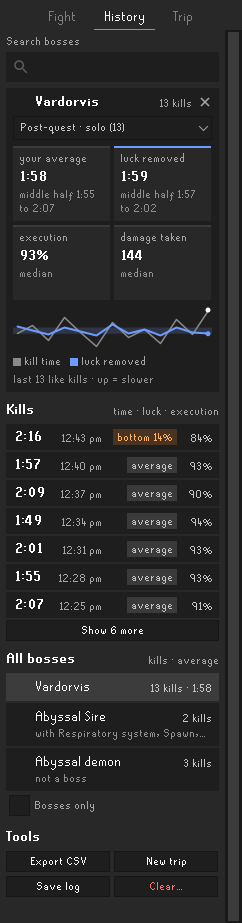
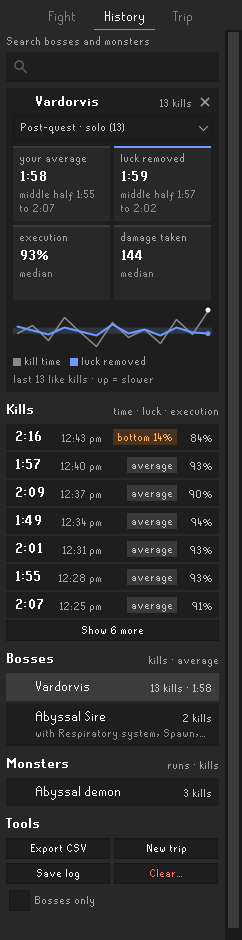
T-067 with T-100 to T-110: new log lines say Luck vs Skill, History picture re-rendered, README names the install id, CHANGELOG
Claude-Session: https://claude.ai/code/session_01X18etdM16w4AUQNJwybjo9

diff --git a/src/main/java/com/pvmlogs/PvmPerformancePlugin.java b/src/main/java/com/pvmlogs/PvmPerformancePlugin.java
@@ -6304,7 +6304,7 @@ public class PvmPerformancePlugin extends Plugin
 				}
 				catch (IOException | RuntimeException e)
 				{
-					log.warn("PvM Logs: could not save the install id", e);
+					log.warn("Luck vs Skill: could not save the install id", e);
 				}
 			});
 		}
@@ -6316,7 +6316,7 @@ public class PvmPerformancePlugin extends Plugin
 		}
 		catch (IOException e)
 		{
-			log.debug("PvM Logs: could not read the bundled rules", e);
+			log.debug("Luck vs Skill: could not read the bundled rules", e);
 		}
 		final String override = dir == null ? null : readText(dir.joinSegment("boss-rules.json"));
 		rulesRecord = portedCommit(rules == null ? null : rules.provenance()) + " rules " + FightContext.shortHash(bundled)

diff --git a/CHANGELOG.md b/CHANGELOG.md
@@ -16,6 +16,8 @@ Luck vs Skill is its own Plugin Hub entry. It began as a fork of Arodab's PvM Pe
 - Boss stats from the OSRS Wiki's DPS calculator, with the right version picked from the health bar (Awakened or not), stats that move with the boss's hitpoints (Vardorvis), the Leviathan's and the Sire's damage modifiers, and Chambers of Xeric and Tombs of Amascut scaling.
 - Bosses with parts or phases (the Sire, the Guardians, the Royal Titans, the Kraken, Hespori, the Maggot King, Araxxor with his araxytes, and others) are one kill each. A boss that leaves view alive isn't a finished fight.
 - A run of monsters of one kind is one room, not a fight per monster, with a lighter view on the side panel.
+- Dying ends the kill, and a fresh boss after a trip is a new kill.
+- A hit is counted only up to what the boss had left when it landed; the room's damage that isn't yours isn't counted as another player's, and your hits on the boss count while you're on one of its adds.
 - Araxytes hatched under Araxxor take a guaranteed max hit from the right weapons, and the expected damage counts it.
 - The slayer helmet's bonus on task, with the game's own task table: alternatives such as the Deranged archaeologist, Artio, Spindel and Calvar'ion count, and a kill the game counts that the table missed is learned for the session.
 - A shot thrown just before a gear switch is scored with what you held when you threw it, and a single-target weapon's hit on another monster is its own attack.
@@ -24,10 +26,11 @@ Luck vs Skill is its own Plugin Hub entry. It began as a fork of Arodab's PvM Pe
 - The fight overlay ("Ledger"): live, then the full breakdown and your usual time after the kill. Execution's parts show only the ones that cost time, unless you choose all of them.
 - The DPS overlay: your weapon's DPS, max hit and accuracy against the monster it names, and its special's. It can stay up outside fights.
 - Times of day show am and pm, so they can't be read as kill times.
-- A new side panel: Fight (where the time went, luck curve, damage and DPS by weapon (the boss, its adds, or both), damage over time, tick strip, forced downtime), History (search, your usual time and execution per boss, every kill) and Trip; boss icons from the game; larger and smooth text options.
+- A new side panel: Fight (where the time went, luck curve, damage and DPS by weapon (the boss, its adds, or both, switched in the card's header), damage over time, tick strip, forced downtime), History (search, your usual time and execution per boss, every kill; bosses and monsters apart, and a room you died in marked) and Trip; boss icons from the game; larger and smooth text options.
 - Settings in four sections; Bosses only is on for new installs.
 
 **Under the hood**
 - Data lives in `~/.runelite/plugin-data/luck-vs-skill/`, through RuneLite's file API, as Plugin Hub rules require.
 - Builds against current RuneLite (1.13.4).
 - Save debug log on the side panel, for reporting a figure that looks wrong. Every debug log names the release, or the commit it was built from.
+- A random id for this install is kept in the data folder for later. Nothing is sent anywhere, and it isn't tied to your account.

diff --git a/README.md b/README.md
@@ -66,7 +66,7 @@ All the pictures here are drawn by the plugin's own code (see Developing) from m
 ## What it sends
 One download, and nothing uploaded.
 - **Monster stats:** when the plugin starts and its copy is missing or more than 7 days old, it downloads `monsters.json`, the monster data of the [OSRS Wiki's DPS calculator](https://github.com/weirdgloop/osrs-dps-calc), from GitHub (`raw.githubusercontent.com`). It uses RuneLite's own web client and identifies itself only as `RuneLite plugin luck-vs-skill`. Like any download, GitHub sees your IP address; nothing about your account goes with it. The copy is kept in your data folder; if the download fails, the plugin uses the copy it has.
-- **Everything else stays on your computer:** your fight history (`history.json`), CSV exports and debug logs, in `~/.runelite/plugin-data/luck-vs-skill/`. Boss icons come from the game client itself.
+- **Everything else stays on your computer:** your fight history (`history.json`), CSV exports, debug logs and a random id for this install (`install-id`, not tied to your account and not sent anywhere), in `~/.runelite/plugin-data/luck-vs-skill/`. Boss icons come from the game client itself.
 
 ## Known limits
 - **Checked against real kills:** Vardorvis, the Abyssal Sire and the Leviathan, and Defence drain once (a special at the Sire). Every other boss, the raids, and the other drain rules come from the OSRS Wiki and the DPS calculator, not yet from logs.
